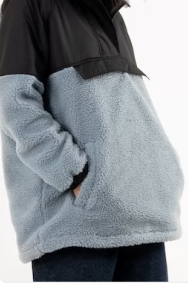
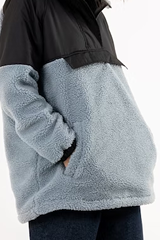
cập nhâth lại các trang index, product-detail, cart

diff --git a/css/style.css b/css/style.css
@@ -401,6 +401,9 @@ p {
   cursor: pointer;
   font-weight: 600;
   transition: all 0.25s ease;
+  display: flex;
+  align-items: center;
+  justify-content: center;
 }
 .btn-continue:hover {
   background-color: #ffffff;
@@ -673,49 +676,42 @@ p {
 }
 
 .item-img-container {
-  flex: 0 0 32%;
-  min-height: 240px;
-  display: flex;
-  align-items: center;
-  justify-content: center;
+  flex: 0 0 160px;
+  aspect-ratio: 160/240;
+  overflow: hidden;
+  background: #ffffff;
+  flex-shrink: 0;
+  position: relative;
 }
 .item-img-container img {
   width: 100%;
   height: 100%;
+  display: block;
   object-fit: cover;
+  object-position: center;
+  transition: transform 0.2s ease;
+}
+.item-img-container:hover img {
+  transform: scale(1.03);
 }
 @media (max-width: 1024px) {
   .item-img-container {
-    flex: 0 0 34%;
+    flex: 0 0 160px;
   }
 }
 @media (max-width: 768px) {
   .item-img-container {
-    flex: 0 0 35%;
-    position: relative;
-    overflow: hidden;
-    align-self: stretch;
-  }
-  .item-img-container img {
-    position: absolute;
-    inset: 0;
-    width: 100%;
-    height: 100%;
-    object-fit: cover;
+    flex: 0 0 140px;
   }
 }
 @media (max-width: 480px) {
   .item-img-container {
-    flex: 0 0 37%;
-    min-height: unset;
-    position: relative;
-    overflow: hidden;
+    flex: 0 0 120px;
   }
 }
 @media (max-width: 320px) {
   .item-img-container {
-    min-height: 170px;
-    max-height: 200px;
+    flex: 0 0 110xp;
   }
 }
 
@@ -760,6 +756,11 @@ p {
   gap: 10px;
   flex: 1;
 }
+@media (max-width: 1024px) {
+  .item-top {
+    margin-bottom: 15px;
+  }
+}
 
 .item-name {
   width: 100%;
@@ -802,6 +803,10 @@ p {
   font-size: 14px;
   line-height: 20px;
   color: #3a4241;
+  -webkit-line-clamp: 4;
+  -webkit-box-orient: vertical;
+  overflow: hidden;
+  display: -webkit-box;
 }
 @media (max-width: 1024px) {
   .item-desc {
@@ -1026,61 +1031,38 @@ p {
     flex-direction: column;
     border-radius: 12px;
     min-height: calc(100dvh - 100px);
+    gap: 0;
   }
 }
 
 .detail-img-container {
   flex: 0 0 34%;
-  min-height: 515px;
+  overflow: hidden;
+  background: #ffffff;
+  align-self: stretch;
+  position: relative;
 }
 @media (max-width: 1024px) {
   .detail-img-container {
-    width: 100%;
-  }
-}
-@media (max-width: 768px) {
-  .detail-img-container {
-    width: 100%;
+    flex: 0 0 38%;
   }
 }
 @media (max-width: 480px) {
   .detail-img-container {
-    flex: 1;
-    display: flex;
-    align-items: center;
-    justify-content: center;
-    min-height: 0;
-  }
-}
-@media (max-width: 320px) {
-  .detail-img-container {
-    flex: 1;
-    display: flex;
-    align-items: center;
-    justify-content: center;
-    min-height: 0;
-    max-height: 300px;
-    margin-bottom: 50px;
+    flex: 0 0 100%;
   }
 }
 
 .detail-img {
   width: 100%;
   height: 100%;
+  display: block;
+  object-fit: cover;
+  object-position: center;
+  transition: transform 0.2s ease;
 }
-@media (max-width: 1024px) {
-  .detail-img {
-    width: 100%;
-    height: 100%;
-    object-fit: cover;
-  }
-}
-@media (max-width: 480px) {
-  .detail-img {
-    width: 100%;
-    height: 100%;
-    object-fit: cover;
-  }
+.detail-img:hover {
+  transform: scale(1.02);
 }
 
 .arrow-icon {
@@ -1164,6 +1146,10 @@ p {
   line-height: 20px;
   letter-spacing: 0.01em;
   padding-top: 10px;
+  -webkit-line-clamp: 4;
+  -webkit-box-orient: vertical;
+  overflow: hidden;
+  display: -webkit-box;
 }
 @media (max-width: 1024px) {
   .detail-desc {
@@ -1497,6 +1483,10 @@ p {
   margin: 0;
   letter-spacing: 0.01em;
   margin-bottom: 20px;
+  -webkit-line-clamp: 4;
+  -webkit-box-orient: vertical;
+  overflow: hidden;
+  display: -webkit-box;
 }
 @media (max-width: 768px) {
   .cart-item-desc {

diff --git a/scss/pages/_index.scss b/scss/pages/_index.scss
@@ -135,47 +135,40 @@
 }
 
 .item-img-container {
-    flex: 0 0 32%;
-    min-height: 240px;
-    display: flex;
-    align-items: center;
-    justify-content: center;
+    flex: 0 0 160px;
+    aspect-ratio: 160 / 240;
+    overflow: hidden;
+    background: $color-white;
+    flex-shrink: 0;
+    position: relative;
 
     img {
         width: 100%;
         height: 100%;
+        display: block;
         object-fit: cover;
+        object-position: center;
+        transition: transform $transition-default;
+    }
+
+    &:hover img {
+        transform: scale(1.03);
     }
 
     @include laptop {
-        flex: 0 0 34%;
+        flex: 0 0 160px;
     }
 
     @include tablet {
-        flex: 0 0 35%;
-        position: relative;
-        overflow: hidden;
-        align-self: stretch;
-
-        img {
-            position: absolute;
-            inset: 0;
-            width: 100%;
-            height: 100%;
-            object-fit: cover;
-        }
+        flex: 0 0 140px;
     }
 
     @include mobile {
-        flex: 0 0 37%;
-        min-height: unset;
-        position: relative;
-        overflow: hidden;
+        flex: 0 0 120px;
     }
 
     @include small-mobile {
-        min-height: 170px;
-        max-height: 200px;
+        flex: 0 0 110xp;
     }
 }
 
@@ -215,6 +208,9 @@
     flex-direction: column;
     gap: 10px;
     flex: 1;
+    @include laptop {
+        margin-bottom: 15px;
+    }
 }
 
 .item-name {
@@ -254,6 +250,11 @@
     font-size: 14px;
     line-height: 20px;
     color: $color-text;
+    -webkit-line-clamp: 4;
+    -webkit-box-orient: vertical;
+    overflow: hidden;
+    display: -webkit-box;
+
 
     @include laptop {
         font-size: 14px;

diff --git a/scss/pages/_product-detail.scss b/scss/pages/_product-detail.scss
@@ -94,54 +94,33 @@
         flex-direction: column;
         border-radius: 12px;
         min-height: calc(100dvh - 100px);
+        gap: 0;
     }
 }
 
-.detail-img-container{
+.detail-img-container {
     flex: 0 0 34%;
-    min-height: 515px;
-
+    overflow: hidden;
+    background: $color-white;
+    align-self: stretch;
+    position: relative;
     @include laptop {
-        width: 100%;
+        flex: 0 0 38%;
     }
-
-    @include tablet {
-        width: 100%;
-    }
-
     @include mobile {
-        flex: 1;
-        display: flex;
-        align-items: center;
-        justify-content: center;
-        min-height: 0;
-    }
-
-    @include small-mobile {
-        flex: 1;
-        display: flex;
-        align-items: center;
-        justify-content: center;
-        min-height: 0;
-        max-height: 300px;
-        margin-bottom: 50px;
+        flex: 0 0 100%;
     }
 }
 
-.detail-img{
+.detail-img {
     width: 100%;
     height: 100%;
-
-    @include laptop {
-        width: 100%;
-        height: 100%;
-        object-fit: cover;
-    }
-
-    @include mobile {
-        width: 100%;
-        height: 100%;
-        object-fit: cover;
+    display: block;
+    object-fit: cover;
+    object-position: center;
+    transition: transform $transition-default;
+    &:hover {
+        transform: scale(1.02);
     }
 }
 
@@ -218,6 +197,11 @@
     line-height: 20px;
     letter-spacing: 0.01em;
     padding-top: 10px;
+    -webkit-line-clamp: 4;
+    -webkit-box-orient: vertical;
+    overflow: hidden;
+    display: -webkit-box;
+
 
     @include laptop {
         font-size: 15px;

diff --git a/scss/pages/_cart.scss b/scss/pages/_cart.scss
@@ -226,6 +226,11 @@
     margin: 0;
     letter-spacing: 0.01em;
     margin-bottom: 20px;
+    -webkit-line-clamp: 4;
+    -webkit-box-orient: vertical;
+    overflow: hidden;
+    display: -webkit-box;
+
 
     @include tablet {
         font-size: 14px;

diff --git a/scss/components/_buttons.scss b/scss/components/_buttons.scss
@@ -115,6 +115,9 @@
     cursor: pointer;
     font-weight: 600;
     transition: all 0.25s ease;
+    display: flex;
+    align-items: center;
+    justify-content: center;
 
     &:hover {
         background-color: $color-white;
